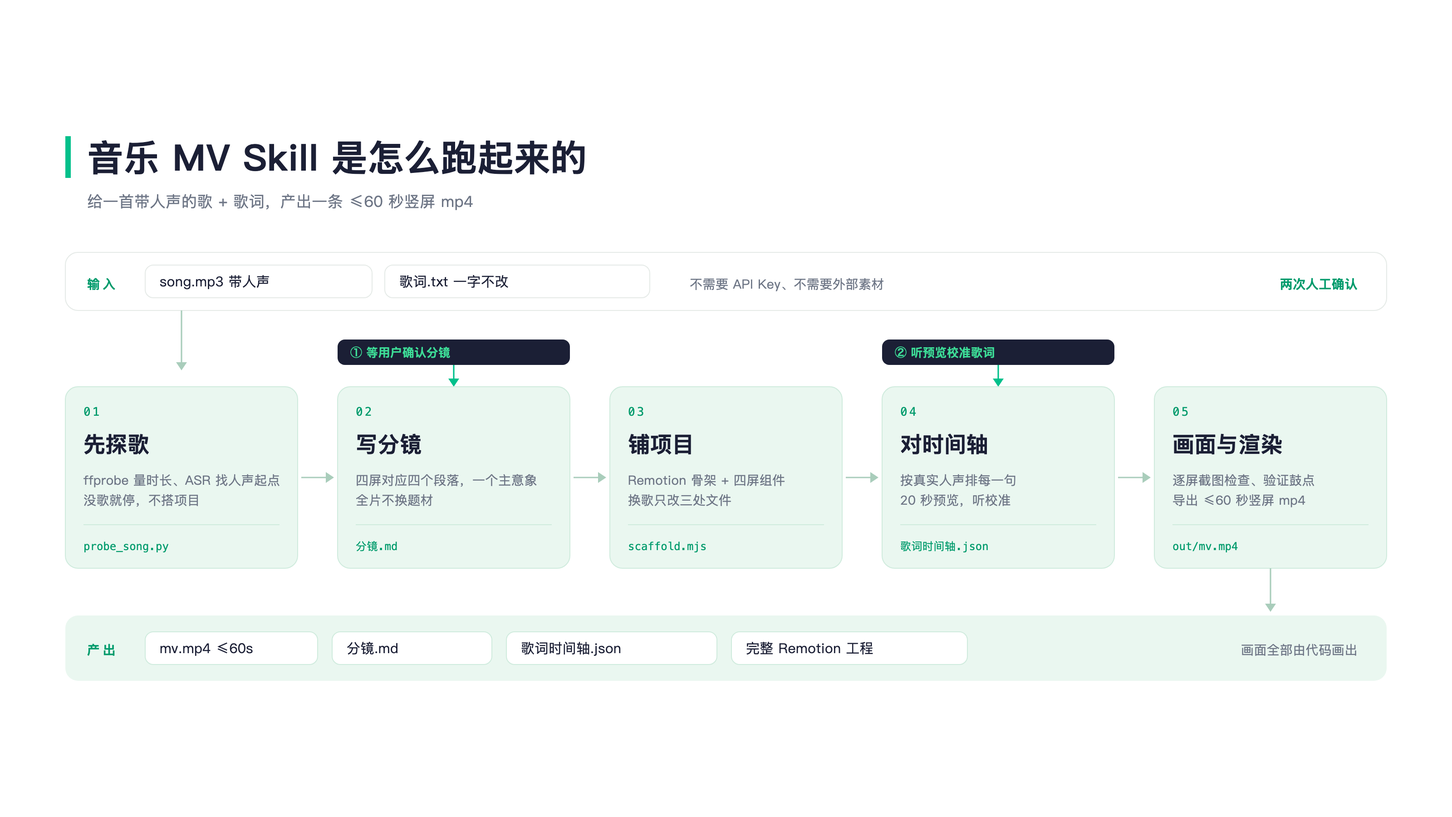
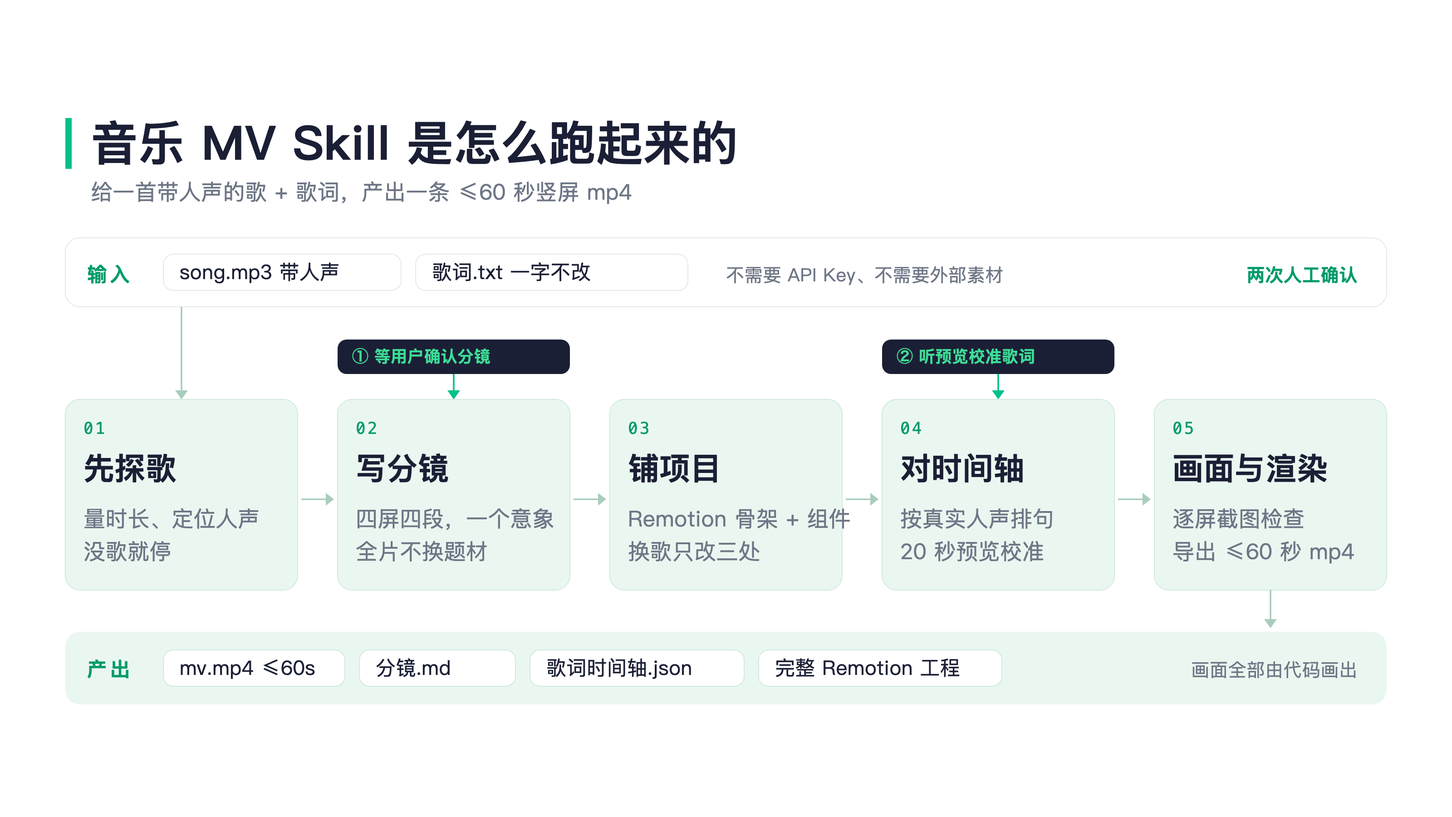
结构图字号整体放大约 1.7 倍，适配 PPT 满页阅读
- 卡片正文 14→24px、卡片标题 24→34px、主标题 40→52px
- 删掉卡内 12px 输出文件名，说明压到每行 ≤9 字，避免放大后溢出
- 输入/产出胶囊 15→22px，确认胶囊 13→18px，色值与布局同步微调

diff --git a/assets/diagram/工作原理.html b/assets/diagram/工作原理.html
@@ -6,83 +6,73 @@
 <body>
 <svg xmlns="http://www.w3.org/2000/svg" width="1600" height="900" viewBox="0 0 1600 900">
 <rect x="0" y="0" width="1600" height="900" rx="0" fill="#FFFFFF"/>
-<rect x="72" y="150" width="6" height="46" rx="0" fill="#00C08B"/>
-<text x="96" y="188" font-family="'PingFang SC','Microsoft YaHei','Hiragino Sans GB',sans-serif" font-size="40" fill="#1B1F35" font-weight="600" text-anchor="start">音乐 MV Skill 是怎么跑起来的</text>
-<text x="96" y="228" font-family="'PingFang SC','Microsoft YaHei','Hiragino Sans GB',sans-serif" font-size="17" fill="#6E7686" font-weight="400" text-anchor="start">给一首带人声的歌 + 歌词，产出一条 ≤60 秒竖屏 mp4</text>
-<rect x="72" y="278" width="1456" height="64" rx="14" fill="#FFFFFF" stroke="#E5EAE7" stroke-width="1"/>
-<text x="96" y="318" font-family="'PingFang SC','Microsoft YaHei','Hiragino Sans GB',sans-serif" font-size="14" fill="#009B6C" font-weight="600" letter-spacing="3" text-anchor="start">输入</text>
-<rect x="160" y="292" width="250" height="36" rx="9" fill="#FFFFFF" stroke="#E5EAE7" stroke-width="1"/>
-<text x="176" y="315.25" font-family="'PingFang SC','Microsoft YaHei','Hiragino Sans GB',sans-serif" font-size="15" fill="#1B1F35" font-weight="400" text-anchor="start">song.mp3  带人声</text>
-<rect x="424" y="292" width="292" height="36" rx="9" fill="#FFFFFF" stroke="#E5EAE7" stroke-width="1"/>
-<text x="440" y="315.25" font-family="'PingFang SC','Microsoft YaHei','Hiragino Sans GB',sans-serif" font-size="15" fill="#1B1F35" font-weight="400" text-anchor="start">歌词.txt  一字不改</text>
-<text x="760" y="318" font-family="'PingFang SC','Microsoft YaHei','Hiragino Sans GB',sans-serif" font-size="14" fill="#6E7686" font-weight="400" text-anchor="start">不需要 API Key、不需要外部素材</text>
-<text x="1496" y="318" font-family="'PingFang SC','Microsoft YaHei','Hiragino Sans GB',sans-serif" font-size="14" fill="#009B6C" font-weight="600" text-anchor="end">两次人工确认</text>
-<line x1="200" y1="342" x2="200" y2="400" stroke="#A9CDBB" stroke-width="1.6"/>
-<path d="M 194 399 L 200 408 L 206 399 Z" fill="#A9CDBB"/>
-<rect x="372" y="374" width="256" height="28" rx="8" fill="#1B1F35"/>
-<text x="386" y="393" font-family="'PingFang SC','Microsoft YaHei','Hiragino Sans GB',sans-serif" font-size="13" fill="#3DDC97" font-weight="600" text-anchor="start">① 等用户确认分镜</text>
-<rect x="972" y="374" width="256" height="28" rx="8" fill="#1B1F35"/>
-<text x="986" y="393" font-family="'PingFang SC','Microsoft YaHei','Hiragino Sans GB',sans-serif" font-size="13" fill="#3DDC97" font-weight="600" text-anchor="start">② 听预览校准歌词</text>
-<line x1="500.0" y1="402" x2="500.0" y2="418" stroke="#00C08B" stroke-width="1.6"/>
-<path d="M 494.0 417 L 500.0 426 L 506.0 417 Z" fill="#00C08B"/>
-<line x1="1100.0" y1="402" x2="1100.0" y2="418" stroke="#00C08B" stroke-width="1.6"/>
-<path d="M 1094.0 417 L 1100.0 426 L 1106.0 417 Z" fill="#00C08B"/>
-<rect x="72" y="426" width="256" height="200" rx="14" fill="#EAF7F0" stroke="#CFEBDD" stroke-width="1"/>
-<text x="92" y="458" font-family="'SF Mono','Menlo','Consolas',monospace" font-size="13" fill="#009B6C" font-weight="400" letter-spacing="2" text-anchor="start">01</text>
-<text x="92" y="498" font-family="'PingFang SC','Microsoft YaHei','Hiragino Sans GB',sans-serif" font-size="24" fill="#1B1F35" font-weight="600" text-anchor="start">先探歌</text>
-<text x="92" y="534" font-family="'PingFang SC','Microsoft YaHei','Hiragino Sans GB',sans-serif" font-size="14" fill="#6E7686" font-weight="400" text-anchor="start">ffprobe 量时长、ASR 找人声起点</text>
-<text x="92" y="556" font-family="'PingFang SC','Microsoft YaHei','Hiragino Sans GB',sans-serif" font-size="14" fill="#6E7686" font-weight="400" text-anchor="start">没歌就停，不搭项目</text>
-<line x1="92" y1="578" x2="308" y2="578" stroke="#CFEBDD" stroke-width="1"/>
-<text x="92" y="606" font-family="'SF Mono','Menlo','Consolas',monospace" font-size="12" fill="#009B6C" font-weight="400" text-anchor="start">probe_song.py</text>
-<rect x="372" y="426" width="256" height="200" rx="14" fill="#EAF7F0" stroke="#CFEBDD" stroke-width="1"/>
-<text x="392" y="458" font-family="'SF Mono','Menlo','Consolas',monospace" font-size="13" fill="#009B6C" font-weight="400" letter-spacing="2" text-anchor="start">02</text>
-<text x="392" y="498" font-family="'PingFang SC','Microsoft YaHei','Hiragino Sans GB',sans-serif" font-size="24" fill="#1B1F35" font-weight="600" text-anchor="start">写分镜</text>
-<text x="392" y="534" font-family="'PingFang SC','Microsoft YaHei','Hiragino Sans GB',sans-serif" font-size="14" fill="#6E7686" font-weight="400" text-anchor="start">四屏对应四个段落，一个主意象</text>
-<text x="392" y="556" font-family="'PingFang SC','Microsoft YaHei','Hiragino Sans GB',sans-serif" font-size="14" fill="#6E7686" font-weight="400" text-anchor="start">全片不换题材</text>
-<line x1="392" y1="578" x2="608" y2="578" stroke="#CFEBDD" stroke-width="1"/>
-<text x="392" y="606" font-family="'SF Mono','Menlo','Consolas',monospace" font-size="12" fill="#009B6C" font-weight="400" text-anchor="start">分镜.md</text>
-<rect x="672" y="426" width="256" height="200" rx="14" fill="#EAF7F0" stroke="#CFEBDD" stroke-width="1"/>
-<text x="692" y="458" font-family="'SF Mono','Menlo','Consolas',monospace" font-size="13" fill="#009B6C" font-weight="400" letter-spacing="2" text-anchor="start">03</text>
-<text x="692" y="498" font-family="'PingFang SC','Microsoft YaHei','Hiragino Sans GB',sans-serif" font-size="24" fill="#1B1F35" font-weight="600" text-anchor="start">铺项目</text>
-<text x="692" y="534" font-family="'PingFang SC','Microsoft YaHei','Hiragino Sans GB',sans-serif" font-size="14" fill="#6E7686" font-weight="400" text-anchor="start">Remotion 骨架 + 四屏组件</text>
-<text x="692" y="556" font-family="'PingFang SC','Microsoft YaHei','Hiragino Sans GB',sans-serif" font-size="14" fill="#6E7686" font-weight="400" text-anchor="start">换歌只改三处文件</text>
-<line x1="692" y1="578" x2="908" y2="578" stroke="#CFEBDD" stroke-width="1"/>
-<text x="692" y="606" font-family="'SF Mono','Menlo','Consolas',monospace" font-size="12" fill="#009B6C" font-weight="400" text-anchor="start">scaffold.mjs</text>
-<rect x="972" y="426" width="256" height="200" rx="14" fill="#EAF7F0" stroke="#CFEBDD" stroke-width="1"/>
-<text x="992" y="458" font-family="'SF Mono','Menlo','Consolas',monospace" font-size="13" fill="#009B6C" font-weight="400" letter-spacing="2" text-anchor="start">04</text>
-<text x="992" y="498" font-family="'PingFang SC','Microsoft YaHei','Hiragino Sans GB',sans-serif" font-size="24" fill="#1B1F35" font-weight="600" text-anchor="start">对时间轴</text>
-<text x="992" y="534" font-family="'PingFang SC','Microsoft YaHei','Hiragino Sans GB',sans-serif" font-size="14" fill="#6E7686" font-weight="400" text-anchor="start">按真实人声排每一句</text>
-<text x="992" y="556" font-family="'PingFang SC','Microsoft YaHei','Hiragino Sans GB',sans-serif" font-size="14" fill="#6E7686" font-weight="400" text-anchor="start">20 秒预览，听校准</text>
-<line x1="992" y1="578" x2="1208" y2="578" stroke="#CFEBDD" stroke-width="1"/>
-<text x="992" y="606" font-family="'SF Mono','Menlo','Consolas',monospace" font-size="12" fill="#009B6C" font-weight="400" text-anchor="start">歌词时间轴.json</text>
-<rect x="1272" y="426" width="256" height="200" rx="14" fill="#EAF7F0" stroke="#CFEBDD" stroke-width="1"/>
-<text x="1292" y="458" font-family="'SF Mono','Menlo','Consolas',monospace" font-size="13" fill="#009B6C" font-weight="400" letter-spacing="2" text-anchor="start">05</text>
-<text x="1292" y="498" font-family="'PingFang SC','Microsoft YaHei','Hiragino Sans GB',sans-serif" font-size="24" fill="#1B1F35" font-weight="600" text-anchor="start">画面与渲染</text>
-<text x="1292" y="534" font-family="'PingFang SC','Microsoft YaHei','Hiragino Sans GB',sans-serif" font-size="14" fill="#6E7686" font-weight="400" text-anchor="start">逐屏截图检查、验证鼓点</text>
-<text x="1292" y="556" font-family="'PingFang SC','Microsoft YaHei','Hiragino Sans GB',sans-serif" font-size="14" fill="#6E7686" font-weight="400" text-anchor="start">导出 ≤60 秒竖屏 mp4</text>
-<line x1="1292" y1="578" x2="1508" y2="578" stroke="#CFEBDD" stroke-width="1"/>
-<text x="1292" y="606" font-family="'SF Mono','Menlo','Consolas',monospace" font-size="12" fill="#009B6C" font-weight="400" text-anchor="start">out/mv.mp4</text>
-<line x1="332" y1="526" x2="360" y2="526" stroke="#A9CDBB" stroke-width="1.6"/>
-<path d="M 359 520 L 368 526 L 359 532 Z" fill="#A9CDBB"/>
-<line x1="632" y1="526" x2="660" y2="526" stroke="#A9CDBB" stroke-width="1.6"/>
-<path d="M 659 520 L 668 526 L 659 532 Z" fill="#A9CDBB"/>
-<line x1="932" y1="526" x2="960" y2="526" stroke="#A9CDBB" stroke-width="1.6"/>
-<path d="M 959 520 L 968 526 L 959 532 Z" fill="#A9CDBB"/>
-<line x1="1232" y1="526" x2="1260" y2="526" stroke="#A9CDBB" stroke-width="1.6"/>
-<path d="M 1259 520 L 1268 526 L 1259 532 Z" fill="#A9CDBB"/>
-<line x1="1400" y1="626" x2="1400" y2="666" stroke="#A9CDBB" stroke-width="1.6"/>
-<path d="M 1394 665 L 1400 674 L 1406 665 Z" fill="#A9CDBB"/>
-<rect x="72" y="678" width="1456" height="72" rx="14" fill="#EAF7F0"/>
-<text x="96" y="721" font-family="'PingFang SC','Microsoft YaHei','Hiragino Sans GB',sans-serif" font-size="14" fill="#009B6C" font-weight="600" letter-spacing="3" text-anchor="start">产出</text>
-<rect x="160" y="696" width="190" height="36" rx="9" fill="#FFFFFF" stroke="#CFEBDD" stroke-width="1"/>
-<text x="176" y="719.25" font-family="'PingFang SC','Microsoft YaHei','Hiragino Sans GB',sans-serif" font-size="15" fill="#1B1F35" font-weight="400" text-anchor="start">mv.mp4  ≤60s</text>
-<rect x="366" y="696" width="176" height="36" rx="9" fill="#FFFFFF" stroke="#CFEBDD" stroke-width="1"/>
-<text x="382" y="719.25" font-family="'PingFang SC','Microsoft YaHei','Hiragino Sans GB',sans-serif" font-size="15" fill="#1B1F35" font-weight="400" text-anchor="start">分镜.md</text>
-<rect x="558" y="696" width="232" height="36" rx="9" fill="#FFFFFF" stroke="#CFEBDD" stroke-width="1"/>
-<text x="574" y="719.25" font-family="'PingFang SC','Microsoft YaHei','Hiragino Sans GB',sans-serif" font-size="15" fill="#1B1F35" font-weight="400" text-anchor="start">歌词时间轴.json</text>
-<rect x="806" y="696" width="260" height="36" rx="9" fill="#FFFFFF" stroke="#CFEBDD" stroke-width="1"/>
-<text x="822" y="719.25" font-family="'PingFang SC','Microsoft YaHei','Hiragino Sans GB',sans-serif" font-size="15" fill="#1B1F35" font-weight="400" text-anchor="start">完整 Remotion 工程</text>
-<text x="1496" y="721" font-family="'PingFang SC','Microsoft YaHei','Hiragino Sans GB',sans-serif" font-size="14" fill="#6E7686" font-weight="400" text-anchor="end">画面全部由代码画出</text>
+<rect x="72" y="130" width="7" height="56" rx="0" fill="#00C08B"/>
+<text x="100" y="176" font-family="'PingFang SC','Microsoft YaHei','Hiragino Sans GB',sans-serif" font-size="52" fill="#1B1F35" font-weight="600" text-anchor="start">音乐 MV Skill 是怎么跑起来的</text>
+<text x="100" y="220" font-family="'PingFang SC','Microsoft YaHei','Hiragino Sans GB',sans-serif" font-size="24" fill="#6E7686" font-weight="400" text-anchor="start">给一首带人声的歌 + 歌词，产出一条 ≤60 秒竖屏 mp4</text>
+<rect x="72" y="262" width="1456" height="76" rx="16" fill="#FFFFFF" stroke="#E5EAE7" stroke-width="1"/>
+<text x="96" y="310" font-family="'PingFang SC','Microsoft YaHei','Hiragino Sans GB',sans-serif" font-size="22" fill="#009B6C" font-weight="600" letter-spacing="3" text-anchor="start">输入</text>
+<rect x="180" y="280" width="262" height="40" rx="11" fill="#FFFFFF" stroke="#E5EAE7" stroke-width="1"/>
+<text x="198" y="307.7" font-family="'PingFang SC','Microsoft YaHei','Hiragino Sans GB',sans-serif" font-size="22" fill="#1B1F35" font-weight="400" text-anchor="start">song.mp3  带人声</text>
+<rect x="458" y="280" width="300" height="40" rx="11" fill="#FFFFFF" stroke="#E5EAE7" stroke-width="1"/>
+<text x="476" y="307.7" font-family="'PingFang SC','Microsoft YaHei','Hiragino Sans GB',sans-serif" font-size="22" fill="#1B1F35" font-weight="400" text-anchor="start">歌词.txt  一字不改</text>
+<text x="800" y="310" font-family="'PingFang SC','Microsoft YaHei','Hiragino Sans GB',sans-serif" font-size="20" fill="#6E7686" font-weight="400" text-anchor="start">不需要 API Key、不需要外部素材</text>
+<text x="1496" y="310" font-family="'PingFang SC','Microsoft YaHei','Hiragino Sans GB',sans-serif" font-size="20" fill="#009B6C" font-weight="600" text-anchor="end">两次人工确认</text>
+<line x1="200" y1="338" x2="200" y2="432" stroke="#A9CDBB" stroke-width="1.8"/>
+<path d="M 193 430 L 200 440 L 207 430 Z" fill="#A9CDBB"/>
+<rect x="372" y="374" width="256" height="38" rx="10" fill="#1B1F35"/>
+<text x="388" y="399" font-family="'PingFang SC','Microsoft YaHei','Hiragino Sans GB',sans-serif" font-size="18" fill="#3DDC97" font-weight="600" text-anchor="start">① 等用户确认分镜</text>
+<rect x="972" y="374" width="256" height="38" rx="10" fill="#1B1F35"/>
+<text x="988" y="399" font-family="'PingFang SC','Microsoft YaHei','Hiragino Sans GB',sans-serif" font-size="18" fill="#3DDC97" font-weight="600" text-anchor="start">② 听预览校准歌词</text>
+<line x1="500.0" y1="412" x2="500.0" y2="432" stroke="#00C08B" stroke-width="1.8"/>
+<path d="M 493.0 430 L 500.0 440 L 507.0 430 Z" fill="#00C08B"/>
+<line x1="1100.0" y1="412" x2="1100.0" y2="432" stroke="#00C08B" stroke-width="1.8"/>
+<path d="M 1093.0 430 L 1100.0 440 L 1107.0 430 Z" fill="#00C08B"/>
+<rect x="72" y="440" width="256" height="210" rx="16" fill="#EAF7F0" stroke="#CFEBDD" stroke-width="1"/>
+<text x="92" y="478" font-family="'SF Mono','Menlo','Consolas',monospace" font-size="18" fill="#009B6C" font-weight="400" letter-spacing="2" text-anchor="start">01</text>
+<text x="92" y="528" font-family="'PingFang SC','Microsoft YaHei','Hiragino Sans GB',sans-serif" font-size="34" fill="#1B1F35" font-weight="600" text-anchor="start">先探歌</text>
+<text x="92" y="580" font-family="'PingFang SC','Microsoft YaHei','Hiragino Sans GB',sans-serif" font-size="24" fill="#6E7686" font-weight="400" text-anchor="start">量时长、定位人声</text>
+<text x="92" y="616" font-family="'PingFang SC','Microsoft YaHei','Hiragino Sans GB',sans-serif" font-size="24" fill="#6E7686" font-weight="400" text-anchor="start">没歌就停</text>
+<rect x="372" y="440" width="256" height="210" rx="16" fill="#EAF7F0" stroke="#CFEBDD" stroke-width="1"/>
+<text x="392" y="478" font-family="'SF Mono','Menlo','Consolas',monospace" font-size="18" fill="#009B6C" font-weight="400" letter-spacing="2" text-anchor="start">02</text>
+<text x="392" y="528" font-family="'PingFang SC','Microsoft YaHei','Hiragino Sans GB',sans-serif" font-size="34" fill="#1B1F35" font-weight="600" text-anchor="start">写分镜</text>
+<text x="392" y="580" font-family="'PingFang SC','Microsoft YaHei','Hiragino Sans GB',sans-serif" font-size="24" fill="#6E7686" font-weight="400" text-anchor="start">四屏四段，一个意象</text>
+<text x="392" y="616" font-family="'PingFang SC','Microsoft YaHei','Hiragino Sans GB',sans-serif" font-size="24" fill="#6E7686" font-weight="400" text-anchor="start">全片不换题材</text>
+<rect x="672" y="440" width="256" height="210" rx="16" fill="#EAF7F0" stroke="#CFEBDD" stroke-width="1"/>
+<text x="692" y="478" font-family="'SF Mono','Menlo','Consolas',monospace" font-size="18" fill="#009B6C" font-weight="400" letter-spacing="2" text-anchor="start">03</text>
+<text x="692" y="528" font-family="'PingFang SC','Microsoft YaHei','Hiragino Sans GB',sans-serif" font-size="34" fill="#1B1F35" font-weight="600" text-anchor="start">铺项目</text>
+<text x="692" y="580" font-family="'PingFang SC','Microsoft YaHei','Hiragino Sans GB',sans-serif" font-size="24" fill="#6E7686" font-weight="400" text-anchor="start">Remotion 骨架 + 组件</text>
+<text x="692" y="616" font-family="'PingFang SC','Microsoft YaHei','Hiragino Sans GB',sans-serif" font-size="24" fill="#6E7686" font-weight="400" text-anchor="start">换歌只改三处</text>
+<rect x="972" y="440" width="256" height="210" rx="16" fill="#EAF7F0" stroke="#CFEBDD" stroke-width="1"/>
+<text x="992" y="478" font-family="'SF Mono','Menlo','Consolas',monospace" font-size="18" fill="#009B6C" font-weight="400" letter-spacing="2" text-anchor="start">04</text>
+<text x="992" y="528" font-family="'PingFang SC','Microsoft YaHei','Hiragino Sans GB',sans-serif" font-size="34" fill="#1B1F35" font-weight="600" text-anchor="start">对时间轴</text>
+<text x="992" y="580" font-family="'PingFang SC','Microsoft YaHei','Hiragino Sans GB',sans-serif" font-size="24" fill="#6E7686" font-weight="400" text-anchor="start">按真实人声排句</text>
+<text x="992" y="616" font-family="'PingFang SC','Microsoft YaHei','Hiragino Sans GB',sans-serif" font-size="24" fill="#6E7686" font-weight="400" text-anchor="start">20 秒预览校准</text>
+<rect x="1272" y="440" width="256" height="210" rx="16" fill="#EAF7F0" stroke="#CFEBDD" stroke-width="1"/>
+<text x="1292" y="478" font-family="'SF Mono','Menlo','Consolas',monospace" font-size="18" fill="#009B6C" font-weight="400" letter-spacing="2" text-anchor="start">05</text>
+<text x="1292" y="528" font-family="'PingFang SC','Microsoft YaHei','Hiragino Sans GB',sans-serif" font-size="34" fill="#1B1F35" font-weight="600" text-anchor="start">画面与渲染</text>
+<text x="1292" y="580" font-family="'PingFang SC','Microsoft YaHei','Hiragino Sans GB',sans-serif" font-size="24" fill="#6E7686" font-weight="400" text-anchor="start">逐屏截图检查</text>
+<text x="1292" y="616" font-family="'PingFang SC','Microsoft YaHei','Hiragino Sans GB',sans-serif" font-size="24" fill="#6E7686" font-weight="400" text-anchor="start">导出 ≤60 秒 mp4</text>
+<line x1="332" y1="550" x2="360" y2="550" stroke="#A9CDBB" stroke-width="1.8"/>
+<path d="M 359 543 L 368 550 L 359 557 Z" fill="#A9CDBB"/>
+<line x1="632" y1="550" x2="660" y2="550" stroke="#A9CDBB" stroke-width="1.8"/>
+<path d="M 659 543 L 668 550 L 659 557 Z" fill="#A9CDBB"/>
+<line x1="932" y1="550" x2="960" y2="550" stroke="#A9CDBB" stroke-width="1.8"/>
+<path d="M 959 543 L 968 550 L 959 557 Z" fill="#A9CDBB"/>
+<line x1="1232" y1="550" x2="1260" y2="550" stroke="#A9CDBB" stroke-width="1.8"/>
+<path d="M 1259 543 L 1268 550 L 1259 557 Z" fill="#A9CDBB"/>
+<line x1="1400" y1="650" x2="1400" y2="684" stroke="#A9CDBB" stroke-width="1.8"/>
+<path d="M 1393 682 L 1400 692 L 1407 682 Z" fill="#A9CDBB"/>
+<rect x="72" y="696" width="1456" height="80" rx="16" fill="#EAF7F0"/>
+<text x="96" y="745" font-family="'PingFang SC','Microsoft YaHei','Hiragino Sans GB',sans-serif" font-size="22" fill="#009B6C" font-weight="600" letter-spacing="3" text-anchor="start">产出</text>
+<rect x="180" y="716" width="200" height="40" rx="11" fill="#FFFFFF" stroke="#CFEBDD" stroke-width="1"/>
+<text x="198" y="743.7" font-family="'PingFang SC','Microsoft YaHei','Hiragino Sans GB',sans-serif" font-size="22" fill="#1B1F35" font-weight="400" text-anchor="start">mv.mp4  ≤60s</text>
+<rect x="396" y="716" width="172" height="40" rx="11" fill="#FFFFFF" stroke="#CFEBDD" stroke-width="1"/>
+<text x="414" y="743.7" font-family="'PingFang SC','Microsoft YaHei','Hiragino Sans GB',sans-serif" font-size="22" fill="#1B1F35" font-weight="400" text-anchor="start">分镜.md</text>
+<rect x="584" y="716" width="236" height="40" rx="11" fill="#FFFFFF" stroke="#CFEBDD" stroke-width="1"/>
+<text x="602" y="743.7" font-family="'PingFang SC','Microsoft YaHei','Hiragino Sans GB',sans-serif" font-size="22" fill="#1B1F35" font-weight="400" text-anchor="start">歌词时间轴.json</text>
+<rect x="836" y="716" width="268" height="40" rx="11" fill="#FFFFFF" stroke="#CFEBDD" stroke-width="1"/>
+<text x="854" y="743.7" font-family="'PingFang SC','Microsoft YaHei','Hiragino Sans GB',sans-serif" font-size="22" fill="#1B1F35" font-weight="400" text-anchor="start">完整 Remotion 工程</text>
+<text x="1496" y="745" font-family="'PingFang SC','Microsoft YaHei','Hiragino Sans GB',sans-serif" font-size="20" fill="#6E7686" font-weight="400" text-anchor="end">画面全部由代码画出</text>
 </svg>
 </body>
 </html>

diff --git a/assets/diagram/build.py b/assets/diagram/build.py
@@ -1,9 +1,10 @@
 #!/usr/bin/env python3
-"""生成「工作原理」结构图（绿色精简版）：SVG（PPT 可编辑）+ HTML（源）+ PNG（2x，需 Chrome 截图）。
+"""生成「工作原理」结构图（绿色大字版）：SVG（PPT 可编辑）+ HTML（源）+ PNG（2x，需 Chrome 截图）。
 
 设计约束（为了能直接拖进 PowerPoint / Keynote）：
   - 1600×900，16:9，与 PPT 页面同比例
-  - 只保留上部流程结构：标题 / 输入 / 五步 / 产出，不要底部说明与页脚
+  - 只保留流程主干：标题 / 输入 / 五步 / 产出，不要底部说明与页脚
+  - 字号按「图铺满 PPT 一页后仍可读」定：正文 ≥22px，卡片标题 34px
   - 配色对齐 PPT「第二条：音乐 MV，先有歌」：亮绿点缀 + 浅绿卡片 + 深墨蓝黑块
   - 所有样式写成 inline 属性，不用 <style> / class / foreignObject / 外部图片
   - 箭头画成真实 path，不依赖 marker
@@ -19,7 +20,6 @@ C = {
     "bg": "#FFFFFF",
     "ink": "#1B1F35",        # PPT 标题 / 深色卡
     "sub": "#6E7686",        # 灰说明
-    "tiny": "#9AA2AE",
     "green": "#00C08B",      # 竖条、色块
     "greenDeep": "#009B6C",  # 浅底上的绿字（保证可读）
     "greenBright": "#3DDC97",  # 深底上的亮绿字
@@ -59,19 +59,19 @@ def txt(x, y, s, size=16, fill=None, weight=400, spacing=0, mono=False, anchor="
 
 def arrow_down(x, y1, y2, color=None):
     color = color or C["arrow"]
-    line(x, y1, x, y2 - 8, color, 1.6)
-    a(f'<path d="M {x-6} {y2-9} L {x} {y2} L {x+6} {y2-9} Z" fill="{color}"/>')
+    line(x, y1, x, y2 - 8, color, 1.8)
+    a(f'<path d="M {x-7} {y2-10} L {x} {y2} L {x+7} {y2-10} Z" fill="{color}"/>')
 
 
 def arrow_right(x1, x2, y, color=None):
     color = color or C["arrow"]
-    line(x1, y, x2 - 8, y, color, 1.6)
-    a(f'<path d="M {x2-9} {y-6} L {x2} {y} L {x2-9} {y+6} Z" fill="{color}"/>')
+    line(x1, y, x2 - 8, y, color, 1.8)
+    a(f'<path d="M {x2-9} {y-7} L {x2} {y} L {x2-9} {y+7} Z" fill="{color}"/>')
 
 
-def chip(x, y, w, h, label, fill, stroke, size=15, color=None, mono=False):
-    rect(x, y, w, h, fill, stroke, rx=9)
-    txt(x + 16, y + h / 2 + size * 0.35, label, size, color or C["ink"], mono=mono)
+def chip(x, y, w, h, label, fill, stroke, size=22, color=None):
+    rect(x, y, w, h, fill, stroke, rx=11)
+    txt(x + 18, y + h / 2 + size * 0.35, label, size, color or C["ink"])
 
 
 # ── 画布 ────────────────────────────────────────────────────────────────
@@ -79,62 +79,61 @@ a(f'<svg xmlns="http://www.w3.org/2000/svg" width="{W}" height="{H}" viewBox="0 
 rect(0, 0, W, H, C["bg"])
 
 # ── 标题：绿竖条 + 深墨标题（对齐 PPT 页内标题样式）─────────────────────
-rect(72, 150, 6, 46, C["green"])
-txt(96, 188, "音乐 MV Skill 是怎么跑起来的", 40, C["ink"], weight=600)
-txt(96, 228, "给一首带人声的歌 + 歌词，产出一条 ≤60 秒竖屏 mp4", 17, C["sub"])
+rect(72, 130, 7, 56, C["green"])
+txt(100, 176, "音乐 MV Skill 是怎么跑起来的", 52, C["ink"], weight=600)
+txt(100, 220, "给一首带人声的歌 + 歌词，产出一条 ≤60 秒竖屏 mp4", 24, C["sub"])
 
 # ── 输入条 ──────────────────────────────────────────────────────────────
-rect(72, 278, 1456, 64, C["bg"], C["line"], rx=14)
-txt(96, 318, "输入", 14, C["greenDeep"], spacing=3, weight=600)
-chip(160, 292, 250, 36, "song.mp3  带人声", C["bg"], C["line"], 15)
-chip(424, 292, 292, 36, "歌词.txt  一字不改", C["bg"], C["line"], 15)
-txt(760, 318, "不需要 API Key、不需要外部素材", 14, C["sub"])
-txt(1496, 318, "两次人工确认", 14, C["greenDeep"], anchor="end", weight=600)
+rect(72, 262, 1456, 76, C["bg"], C["line"], rx=16)
+txt(96, 310, "输入", 22, C["greenDeep"], spacing=3, weight=600)
+chip(180, 280, 262, 40, "song.mp3  带人声", C["bg"], C["line"], 22)
+chip(458, 280, 300, 40, "歌词.txt  一字不改", C["bg"], C["line"], 22)
+txt(800, 310, "不需要 API Key、不需要外部素材", 20, C["sub"])
+txt(1496, 310, "两次人工确认", 20, C["greenDeep"], anchor="end", weight=600)
 
-arrow_down(200, 342, 408)
+arrow_down(200, 338, 440)
 
 # ── 主干五卡 ────────────────────────────────────────────────────────────
 CX = [72, 372, 672, 972, 1272]
-CW, CY, CH = 256, 426, 200
+CW, CY, CH = 256, 440, 210
 
+# 文案压到每行 ≤9 字，才能把正文放大到 24px 仍不溢出 256px 卡宽
 cards = [
-    ("01", "先探歌", ["ffprobe 量时长、ASR 找人声起点", "没歌就停，不搭项目"], "probe_song.py"),
-    ("02", "写分镜", ["四屏对应四个段落，一个主意象", "全片不换题材"], "分镜.md"),
-    ("03", "铺项目", ["Remotion 骨架 + 四屏组件", "换歌只改三处文件"], "scaffold.mjs"),
-    ("04", "对时间轴", ["按真实人声排每一句", "20 秒预览，听校准"], "歌词时间轴.json"),
-    ("05", "画面与渲染", ["逐屏截图检查、验证鼓点", "导出 ≤60 秒竖屏 mp4"], "out/mv.mp4"),
+    ("01", "先探歌", ["量时长、定位人声", "没歌就停"]),
+    ("02", "写分镜", ["四屏四段，一个意象", "全片不换题材"]),
+    ("03", "铺项目", ["Remotion 骨架 + 组件", "换歌只改三处"]),
+    ("04", "对时间轴", ["按真实人声排句", "20 秒预览校准"]),
+    ("05", "画面与渲染", ["逐屏截图检查", "导出 ≤60 秒 mp4"]),
 ]
 
 # 人工确认胶囊（深墨底 + 亮绿字，呼应 PPT 右侧深色卡）
-rect(CX[1], 374, CW, 28, C["dark"], None, rx=8)
-txt(CX[1] + 14, 393, "① 等用户确认分镜", 13, C["greenBright"], weight=600)
-rect(CX[3], 374, CW, 28, C["dark"], None, rx=8)
-txt(CX[3] + 14, 393, "② 听预览校准歌词", 13, C["greenBright"], weight=600)
-arrow_down(CX[1] + CW / 2, 402, 426, C["green"])
-arrow_down(CX[3] + CW / 2, 402, 426, C["green"])
+rect(CX[1], 374, CW, 38, C["dark"], None, rx=10)
+txt(CX[1] + 16, 399, "① 等用户确认分镜", 18, C["greenBright"], weight=600)
+rect(CX[3], 374, CW, 38, C["dark"], None, rx=10)
+txt(CX[3] + 16, 399, "② 听预览校准歌词", 18, C["greenBright"], weight=600)
+arrow_down(CX[1] + CW / 2, 412, 440, C["green"])
+arrow_down(CX[3] + CW / 2, 412, 440, C["green"])
 
-for i, (num, title, desc, out) in enumerate(cards):
+for i, (num, title, desc) in enumerate(cards):
     x = CX[i]
-    rect(x, CY, CW, CH, C["greenPale"], C["greenLine"], rx=14)
-    txt(x + 20, CY + 32, num, 13, C["greenDeep"], mono=True, spacing=2)
-    txt(x + 20, CY + 72, title, 24, C["ink"], weight=600)
+    rect(x, CY, CW, CH, C["greenPale"], C["greenLine"], rx=16)
+    txt(x + 20, CY + 38, num, 18, C["greenDeep"], mono=True, spacing=2)
+    txt(x + 20, CY + 88, title, 34, C["ink"], weight=600)
     for j, d in enumerate(desc):
-        txt(x + 20, CY + 108 + j * 22, d, 14, C["sub"])
-    line(x + 20, CY + 152, x + CW - 20, CY + 152, C["greenLine"], 1)
-    txt(x + 20, CY + 180, out, 12, C["greenDeep"], mono=True)
+        txt(x + 20, CY + 140 + j * 36, d, 24, C["sub"])
 
 for i in range(4):
-    arrow_right(CX[i] + CW + 4, CX[i + 1] - 4, CY + 100)
+    arrow_right(CX[i] + CW + 4, CX[i + 1] - 4, CY + 110)
 
 # ── 产出条 ──────────────────────────────────────────────────────────────
-arrow_down(1400, 626, 674)
-rect(72, 678, 1456, 72, C["greenPale"], None, rx=14)
-txt(96, 721, "产出", 14, C["greenDeep"], spacing=3, weight=600)
-chip(160, 696, 190, 36, "mv.mp4  ≤60s", C["bg"], C["greenLine"], 15)
-chip(366, 696, 176, 36, "分镜.md", C["bg"], C["greenLine"], 15)
-chip(558, 696, 232, 36, "歌词时间轴.json", C["bg"], C["greenLine"], 15)
-chip(806, 696, 260, 36, "完整 Remotion 工程", C["bg"], C["greenLine"], 15)
-txt(1496, 721, "画面全部由代码画出", 14, C["sub"], anchor="end")
+arrow_down(1400, 650, 692)
+rect(72, 696, 1456, 80, C["greenPale"], None, rx=16)
+txt(96, 745, "产出", 22, C["greenDeep"], spacing=3, weight=600)
+chip(180, 716, 200, 40, "mv.mp4  ≤60s", C["bg"], C["greenLine"], 22)
+chip(396, 716, 172, 40, "分镜.md", C["bg"], C["greenLine"], 22)
+chip(584, 716, 236, 40, "歌词时间轴.json", C["bg"], C["greenLine"], 22)
+chip(836, 716, 268, 40, "完整 Remotion 工程", C["bg"], C["greenLine"], 22)
+txt(1496, 745, "画面全部由代码画出", 20, C["sub"], anchor="end")
 
 a("</svg>")
 
@@ -147,7 +146,7 @@ here = Path(__file__).resolve().parent
     '</head>\n<body>\n' + svg + '\n</body>\n</html>\n',
     encoding="utf-8",
 )
-print("已生成 工作原理.svg / 工作原理.html（绿色精简版）")
+print("已生成 工作原理.svg / 工作原理.html（绿色大字版）")
 print("PNG 用 Chrome 截：")
 print(f'  "/Applications/Google Chrome.app/Contents/MacOS/Google Chrome" --headless --disable-gpu '
       f'--force-device-scale-factor=2 --window-size={W},{H} '

diff --git a/README.md b/README.md
@@ -18,7 +18,7 @@
 
 ![工作原理](assets/diagram/工作原理.png)
 
-图只画流程主干：输入 → 五步 → 产出，不带说明文字。配色是亮绿点缀 + 浅绿卡片 + 深墨蓝黑，跟「音乐 MV，先有歌」那页 PPT 一套。
+图只画流程主干：输入 → 五步 → 产出，不带说明文字。配色是亮绿点缀 + 浅绿卡片 + 深墨蓝黑，跟「音乐 MV，先有歌」那页 PPT 一套。字号按「铺满 PPT 一页后仍可读」定：卡片正文 24px、卡片标题 34px、主标题 52px。
 
 **放进 PPT**：直接把 [`assets/diagram/工作原理.svg`](assets/diagram/工作原理.svg) 拖进 PowerPoint / Keynote，右键「转换为形状」就能逐个改文字、改颜色。图是 16:9、系统字体、纯矢量，所有样式写成 inline 属性，不依赖外部图片或网络字体。`工作原理.png` 是 2 倍图兜底，`工作原理.html` 和 `build.py` 是源文件。
 
